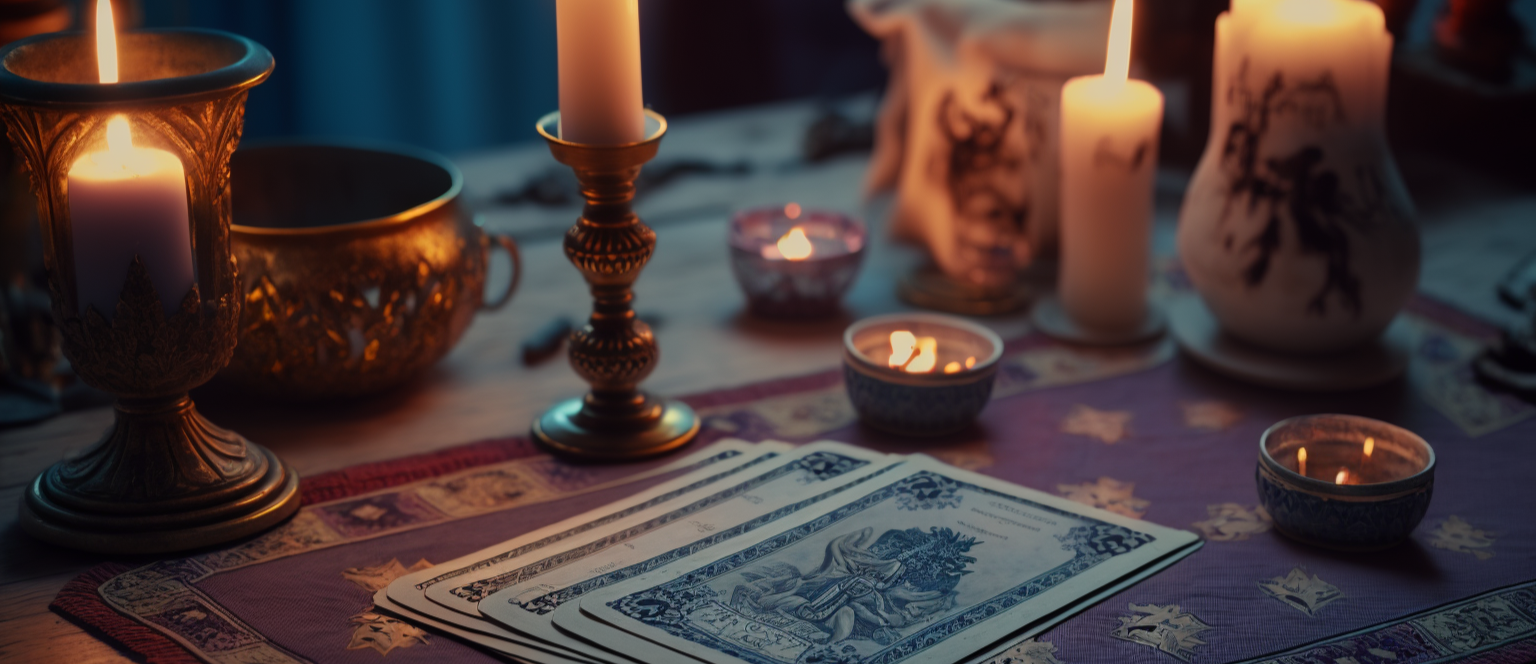
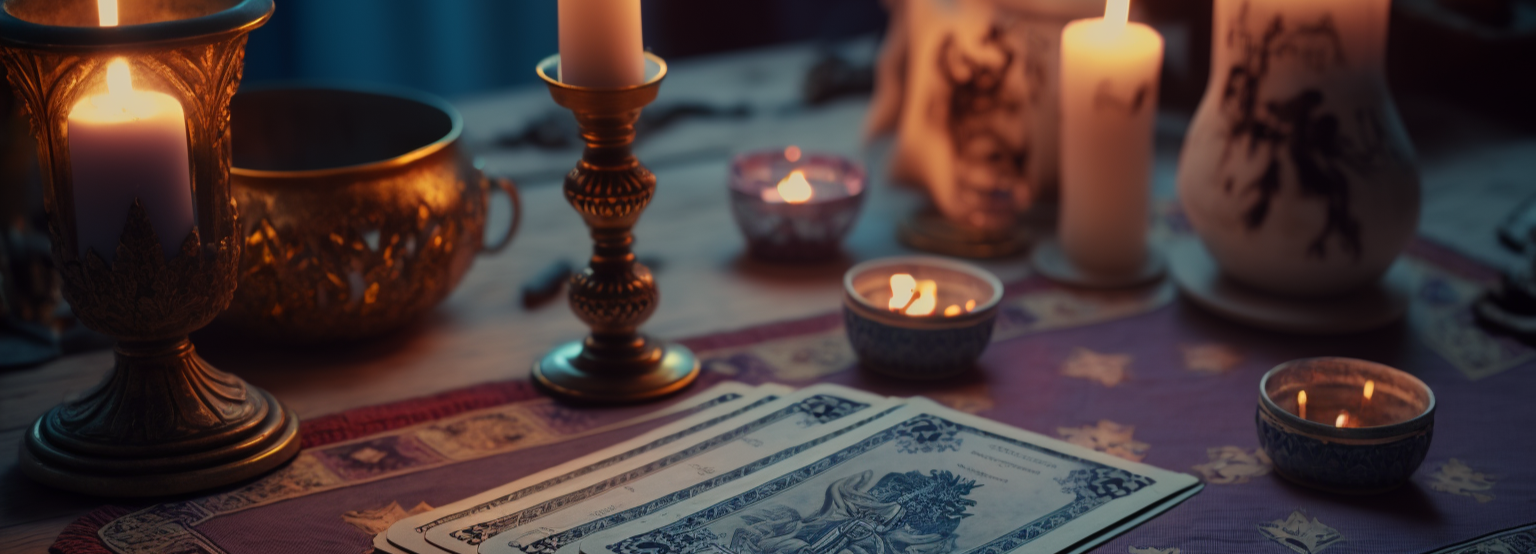
Background fix

diff --git a/style/style.scss b/style/style.scss
@@ -35,7 +35,7 @@ main {
       justify-content: center;
       img {
         border-radius: 12px;
-        max-height: 400px;
+        
         width: 75vw;
         min-width: 280px;
       }

diff --git a/style/style.css b/style/style.css
@@ -38,7 +38,6 @@ main .wrap #banner {
 }
 main .wrap #banner img {
   border-radius: 12px;
-  max-height: 400px;
   width: 75vw;
   min-width: 280px;
 }
